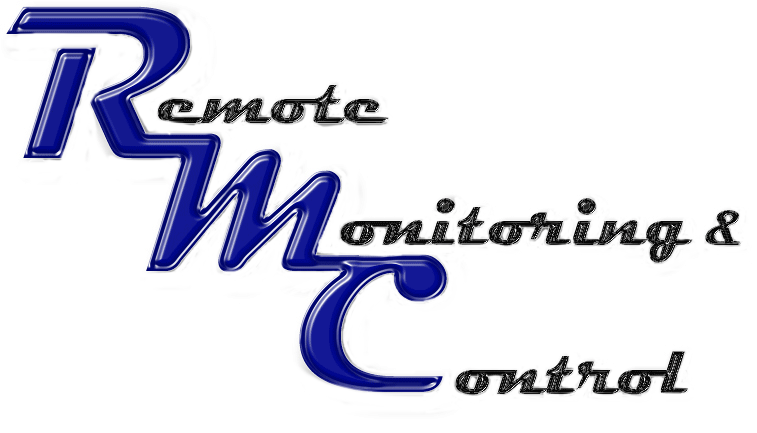
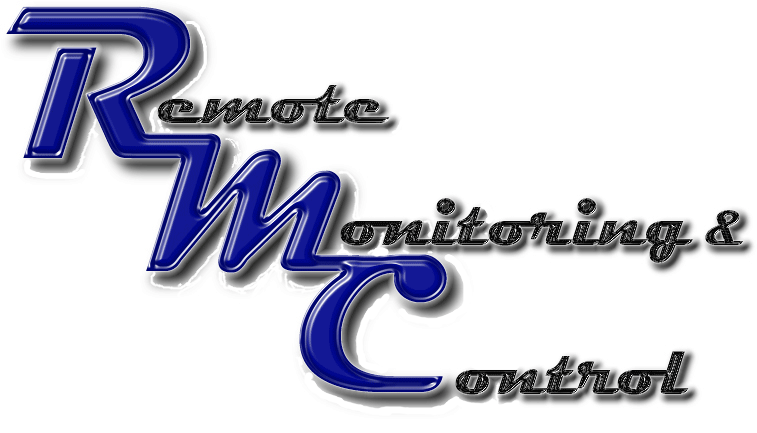
Another transparency test

Changed region(s): [[0.0, 0.03, 1.0, 0.8406], [0.395, 0.8106, 0.9419, 0.9607]]

diff --git a/index.html b/index.html
@@ -9,7 +9,11 @@
 		<!-- Bootstrap CSS -->
 		<link rel="stylesheet" href="css/bootstrap.min.css">
 
-	
+		<style>
+			#home {
+				background-color: #ccffff;
+			}
+		</style>
 
 		<!-- HTML5 Shim and Respond.js IE8 support of HTML5 elements and media queries -->
 		<!-- WARNING: Respond.js doesn't work if you view the page via file:// -->

diff --git a/includes/home.html b/includes/home.html
@@ -1,3 +1,3 @@
 <h1>Home</h1>
 <p>This is the Home page!</p>
-<img src="images/RMC.bmp" alt="">
+<img src="images/RMC2.png" alt="">
